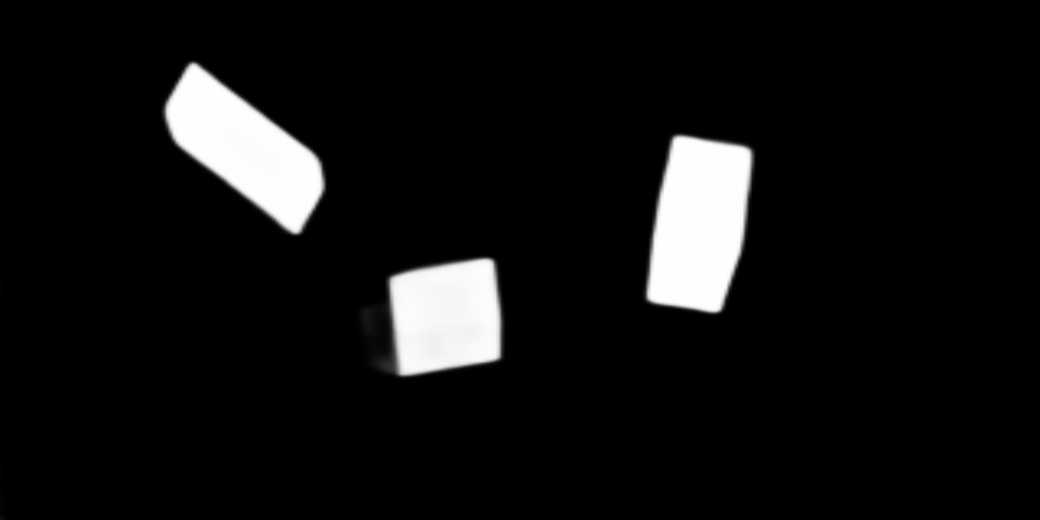
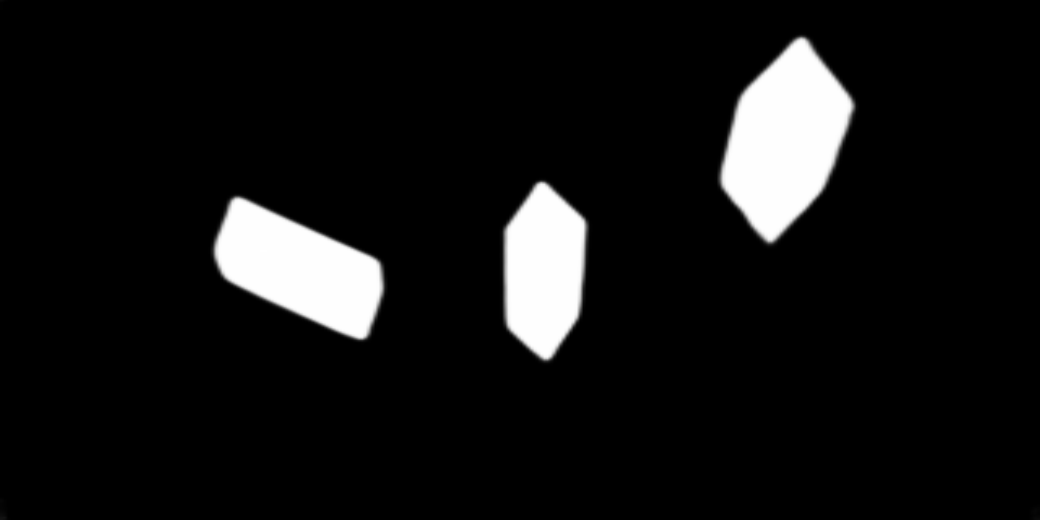
Partial fix of files

Changed region(s): [[0.1538, 0.1231, 0.5846, 0.7385], [0.6154, 0.0615, 0.8308, 0.6154]]

diff --git a/main.py b/main.py
@@ -6,6 +6,7 @@ import camera_control
 import Segmentation.U_2_Net.u2net_test as u2net
 import Segmentation.find_instances as find_instances
 import Segmentation.top_finder as top_finder
+import Robot_Control.block_stack as block_stack
 import sys
 
 from xarm.wrapper import XArmAPI
@@ -33,7 +34,7 @@ if run_again:
 # Separate Instances
 blocks = find_instances.run("camera_output.jpg", "./Segmentation/camera_output.png")
 
-corners = top_finder.run(blocks)
+corners,h_means = top_finder.run(blocks)
 M_table_to_robot = find_robot_transformation()
 
 # print(tops)
@@ -43,12 +44,32 @@ M_table_to_robot = find_robot_transformation()
 #
 # cv2.waitKey(0)
 # cv2.destroyAllWindows()
-for set in corners:
-    transformed_points = np.squeeze(cv2.perspectiveTransform(np.array(set).reshape(-1, 1, 2), M_table_to_robot))
+centers = []
+for set in range(len(corners)):
+    length = np.sqrt(h_means[set][0] ** 2) + np.sqrt(h_means[set][1] ** 2)
+    transformed_points = np.squeeze(
+    cv2.perspectiveTransform(np.array(corners[set]).reshape(-1, 1, 2), M_table_to_robot))
     center_transformed = np.average(transformed_points, axis=0)
-    center_transformed[0] = center_transformed[0]+25
-    print(center_transformed)
-    arm.set_position_aa([*center_transformed, 120, 180, 0, 0], wait=True)
-print(corners)
-initial_position = [200,0,200,180,0,0]
-arm.set_position_aa(initial_position,wait=True)
+    center_transformed[0] +=  0.43 * length
+    center_transformed[1] +=  0.20 * h_means[set][0]
+    centers.append(center_transformed)
+
+for center in centers[1:]:
+    block_stack.stack_func(center, centers[0])
+
+
+# for set in range(len(corners)):
+#     length = np.sqrt(h_means[set][0]**2)+np.sqrt(h_means[set][1]**2)
+#     transformed_points = np.squeeze(cv2.perspectiveTransform(np.array(corners[set]).reshape(-1, 1, 2), M_table_to_robot))
+#     center_transformed = np.average(transformed_points, axis=0)
+#     center_transformed[0] = center_transformed[0] + 0.40*length
+#     arm.set_position_aa([*center_transformed, 120, 180, 0, 0], wait=True)
+# for set in corners:
+#     transformed_points = np.squeeze(cv2.perspectiveTransform(np.array(set).reshape(-1, 1, 2), M_table_to_robot))
+#     center_transformed = np.average(transformed_points, axis=0)
+#     center_transformed[0] = center_transformed[0]+25
+#     print(center_transformed)
+#     arm.set_position_aa([*center_transformed, 120, 180, 0, 0], wait=True)
+# print(corners)
+# initial_position = [200,0,200,180,0,0]
+# arm.set_position_aa(initial_position,wait=True)

diff --git a/Segmentation/top_finder.py b/Segmentation/top_finder.py
@@ -29,16 +29,18 @@ def up(points):
 
     right_offset = tr - br
     left_offset = tl - bl
+    mean_offset = np.mean([right_offset, left_offset], axis=0)
 
     mid_corners = np.delete(xtemp, [0, 1, 4, 5], axis=0)
 
     lowest_mid = mid_corners[np.argmax(mid_corners[:,1])]
     top_mid = mid_corners[np.argmin(mid_corners[:,1])]
-    lost_corner = lowest_mid + (np.array(right_offset) + np.array(left_offset))/2
+    lost_corner = lowest_mid + mean_offset
 
     top_four = np.array([lost_corner, tl, top_mid, tr])
 
-    return top_four
+    # return top_four, np.mean([right_offset, left_offset])
+    return top_four, mean_offset
 
 def contours(blocks):
     contours = []
@@ -90,6 +92,7 @@ def run(blocks):
 
     polys = contour2poly(contour_list, np.array(blocks[0]).shape)
     centers = []
+    means = []
     #running on each segmented block
     for poly in polys:
         corners_coor = []
@@ -107,15 +110,15 @@ def run(blocks):
         cv2.imshow('First blank', blank)
 
 
-        top = up(np.array(corners_coor))
+        top, mean_offset = up(np.array(corners_coor))
 
         top_rs = top.reshape((-1, 1, 2)).astype(int)
         cv2.fillPoly(blank, [top_rs], (255, 255, 255))
         # centers.append(top.tolist())
         centers.append(top.tolist())
-
+        means.append(mean_offset)
         cv2.imshow('Predicted top', blank)
         cv2.waitKey(0)
         cv2.destroyAllWindows()
 
-    return(centers)
+    return(centers, means)

diff --git a/Robot_Control/block_stack.py b/Robot_Control/block_stack.py
@@ -1,0 +1,55 @@
+from xarm.wrapper import XArmAPI
+import numpy as np
+import cv2
+import time
+
+arm = XArmAPI('192.168.1.165')
+initial_position = [200,0,200,180,0,0]
+arm.set_collision_rebound(on=True)
+
+
+def complete_clean():
+  arm.clean_error()
+  arm.clean_gripper_error()
+  arm.motion_enable(True)
+  arm.set_state(state=0)
+  time.sleep(0.5)
+
+
+def stack_func(start_pos, end_pos):
+
+  complete_clean()
+  arm.set_position_aa([*start_pos,200,180,0,0],wait=True)
+  time.sleep(0.5)
+  arm.set_position_aa([*start_pos, 0, 180, 0, 0], speed=20 ,wait=True)
+
+  # complete_clean()
+  #arm.config_cgpio_reset_when_stop(on_off=True)
+
+  # arm.set_collision_rebound(on=False)
+  complete_clean()
+  arm.set_position_aa([*start_pos, arm.get_position()[1][2] + 10, 180, 0, 0], wait=True)
+
+  # curr_position = arm.get_position()
+  # curr_position[1][2] -= 10
+  # arm.set_position_aa(curr_position[1],wait=True)
+  time.sleep(0.5)
+  arm.set_vacuum_gripper(on=True, wait=True)
+
+
+  arm.set_position_aa([*start_pos,200,180,0,0],wait=True)
+  arm.set_position_aa([*end_pos,200,180,0,0],wait=True)
+  arm.set_position_aa([*end_pos,0,180,0,0],speed=20,wait=True)
+
+  complete_clean()
+  arm.set_position_aa([*end_pos, arm.get_position()[1][2]+10, 180, 0, 0], wait=True)
+  time.sleep(0.5)
+
+
+  arm.set_vacuum_gripper(False, wait=True)
+  arm.set_position_aa([*end_pos,200,180,0,0],wait=True)
+  arm.set_position_aa(initial_position,wait=True)
+
+
+
+

diff --git a/Robot_Control/move_robot.py b/Robot_Control/move_robot.py
@@ -30,7 +30,13 @@ transformed_points = np.squeeze(cv2.perspectiveTransform(centroids.reshape(-1,1,
 #print(transformed_points)
 print(*transformed_points[0])
 arm.clean_error()
-arm.set_position_aa([*transformed_points[0],120,180,0,0],wait=True)
+#arm.set_position_aa([*transformed_points[0],120,180,0,0],wait=True)
+
+for tpoint in transformed_points:
+    arm.set_position_aa([tpoint,120,180,0,0],wait=True)
+    arm.set_position_aa([tpoint, 0, 180, 0, 0], wait=True)
+    arm.clean_error()
+    #vac on
 
 # arm.get_init
 # id2_br_x = -4.7 #offset in x from bottom right of id1

diff --git a/testing.py b/testing.py
@@ -1,0 +1,20 @@
+import numpy as np
+import cv2
+
+
+img = cv2.imread("camera_output.jpg")
+gray = cv2.cvtColor(img, cv2.COLOR_BGR2GRAY)
+bilateral = cv2.bilateralFilter(gray, 5, 75, 75)
+
+cv2.imshow("bilateral",bilateral)
+
+dst = cv2.cornerHarris(bilateral, 3, 3, 0.04)
+#--- create a black image to see where those corners occur ---
+mask = np.zeros_like(gray)
+
+#--- applying a threshold and turning those pixels above the threshold to white ---
+mask[dst>0.01*dst.max()] = 255
+cv2.imshow('mask', mask)
+
+cv2.waitKey(0)
+cv2.destroyAllWindows()
